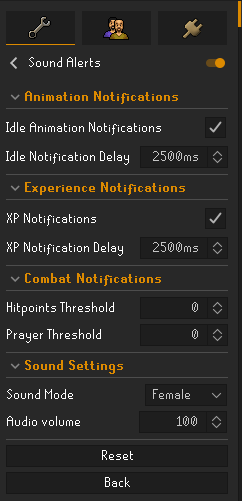
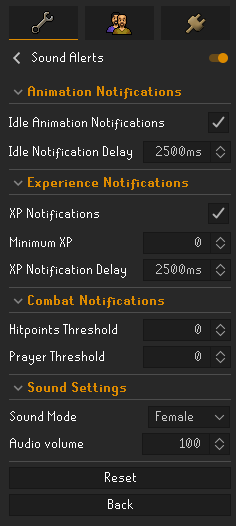
Added support to configure a minimum Experience drop required to trigger the xp drop notifier.

diff --git a/src/main/java/com/soundalerts/SoundAlertsConfig.java b/src/main/java/com/soundalerts/SoundAlertsConfig.java
@@ -75,10 +75,21 @@ public interface SoundAlertsConfig extends Config
 		return true;
 	}
 	@ConfigItem(
+			keyName = "minimumxp",
+			name = "Minimum XP",
+			description = "The amount of experience drop required to send a notification. A value of 0 will count all XP drops..",
+			position = 1,
+			section = experienceNotificationsSection
+	)
+	default int getExperienceThreshold()
+	{
+		return 0;
+	}
+	@ConfigItem(
 			keyName = "xpnotificationsdelay",
 			name = "XP Notification Delay",
 			description = "The notification delay after the player has not gained experience.",
-			position = 1,
+			position = 2,
 			section = experienceNotificationsSection
 	)
 	@Units(Units.MILLISECONDS)

diff --git a/src/main/java/com/soundalerts/SoundAlertsPlugin.java b/src/main/java/com/soundalerts/SoundAlertsPlugin.java
@@ -391,7 +391,7 @@ public class SoundAlertsPlugin extends Plugin
 		if (previous != null)
 		{
 			last_experience = xp - previous;
-			if (last_experience != 0) {
+			if (last_experience != 0 && (config.getExperienceThreshold() < last_experience)) {
 				time = currentTimeMillis();
 				notify_idle = false;
 			}
